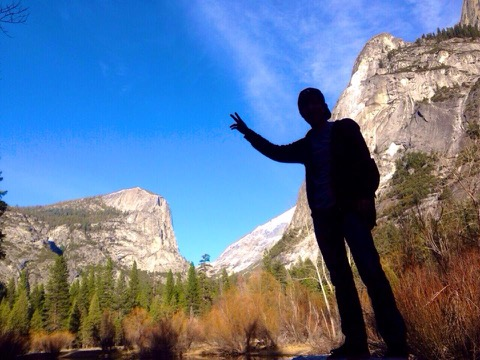
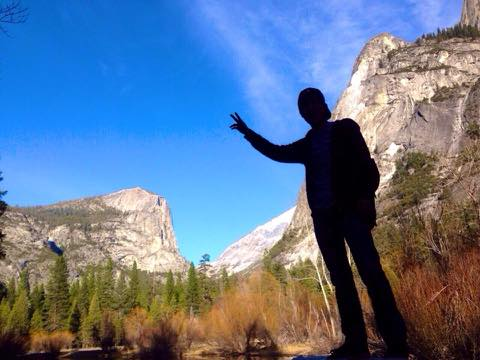
perf: remove scroll-progress entirely, recompress 480w hero image
ForcedReflow insight showed 247 ms solely in updateScrollProgress even after
rAF scheduling. The scroll-progress bar is nonessential given the active-section
nav already present, so remove it completely.

- Delete .scroll-progress / span HTML, CSS rules, --scroll-progress and
  --z-progress custom properties
- Remove progressFrame, updateScrollProgress, requestScrollProgressUpdate
  from script.js; remove their call sites (initial call + renderProjects)
- Keep one passive scroll listener (tiltBounds invalidation) and one resize
  listener (tiltBounds invalidation); both fire at native event rate with no
  style read, so no forced reflow possible
- Recompress assets/profile-480w.jpg: sips formatOptions 45 → 29,610 bytes
  (was 60,371; ~51% saving; visually acceptable at 294–345px mobile slot)
- Add regression test: scroll-progress markup/style/JS must not reappear

Tests: 18 pass / 0 fail

Copilot-Session: d071a5ac-c62e-4300-bfca-1b61d46428d7

diff --git a/script.js b/script.js
@@ -34,29 +34,12 @@ document.addEventListener("DOMContentLoaded", () => {
     root.classList.add("motion-ready");
   }
 
-  let progressFrame = null;
-  function updateScrollProgress() {
-    const scrollable = root.scrollHeight - window.innerHeight;
-    const progress = scrollable > 0 ? Math.min(1, window.scrollY / scrollable) : 0;
-    root.style.setProperty("--scroll-progress", progress.toFixed(4));
-    progressFrame = null;
-  }
-
-  function requestScrollProgressUpdate() {
-    if (progressFrame === null) {
-      progressFrame = window.requestAnimationFrame(updateScrollProgress);
-    }
-  }
-
   window.addEventListener("scroll", () => {
     tiltBounds = null;
-    requestScrollProgressUpdate();
   }, { passive: true });
   window.addEventListener("resize", () => {
     tiltBounds = null;
-    requestScrollProgressUpdate();
   }, { passive: true });
-  requestScrollProgressUpdate();
 
   let tiltBounds = null;
   let pendingTiltH = 0;
@@ -318,7 +301,6 @@ document.addEventListener("DOMContentLoaded", () => {
     projectsContainer.replaceChildren(fragment);
     projectsContainer.setAttribute("aria-busy", "false");
     projectState = "ready";
-    requestScrollProgressUpdate();
     setupProjectMotion();
   }
 

diff --git a/styles.css b/styles.css
@@ -41,9 +41,7 @@
   --duration-medium: 260ms;
   --duration-long: 720ms;
   --z-menu: 20;
-  --z-progress: 25;
   --z-skip: 30;
-  --scroll-progress: 0;
 }
 
 *,
@@ -119,24 +117,6 @@ button {
 :where(button:disabled, [aria-disabled="true"]) {
   cursor: not-allowed;
   opacity: 0.55;
-}
-
-.scroll-progress {
-  position: fixed;
-  inset-block-start: 0;
-  inset-inline: 0;
-  z-index: var(--z-progress);
-  height: 3px;
-  pointer-events: none;
-}
-
-.scroll-progress span {
-  display: block;
-  width: 100%;
-  height: 100%;
-  background: var(--color-coral);
-  transform: scaleX(var(--scroll-progress));
-  transform-origin: left center;
 }
 
 .skip-link {

diff --git a/index.html b/index.html
@@ -81,9 +81,6 @@
   <script src="script.js" defer></script>
 </head>
 <body>
-  <div class="scroll-progress" aria-hidden="true">
-    <span></span>
-  </div>
   <a class="skip-link" href="#main-content" data-i18n="accessibility.skip">
     メインコンテンツへ移動
   </a>
